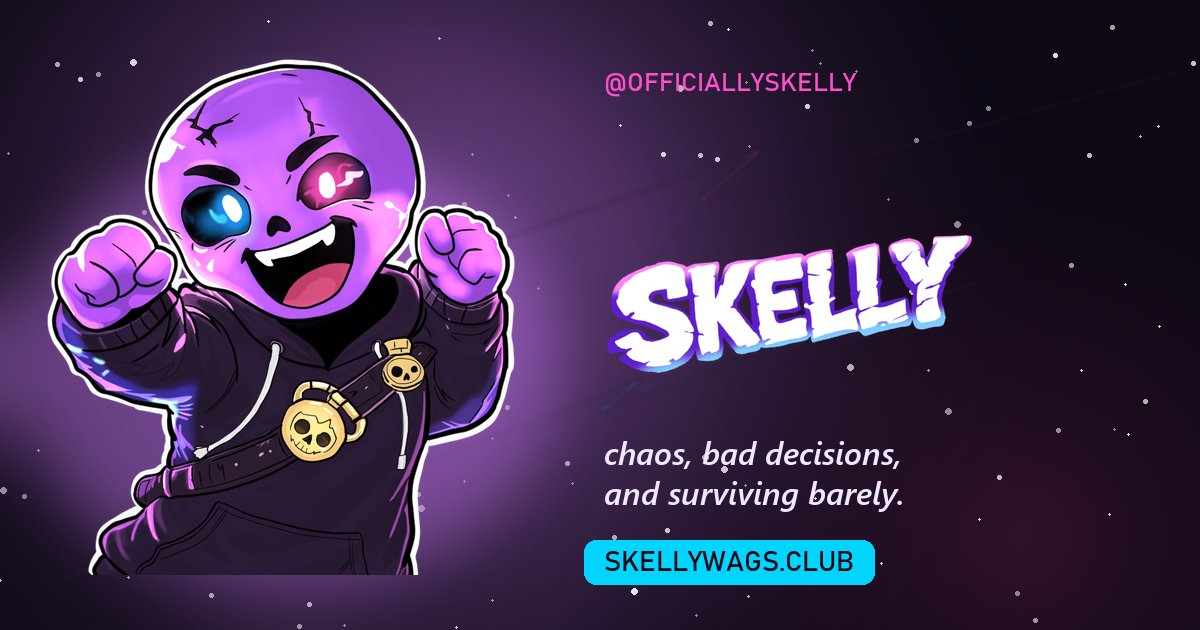
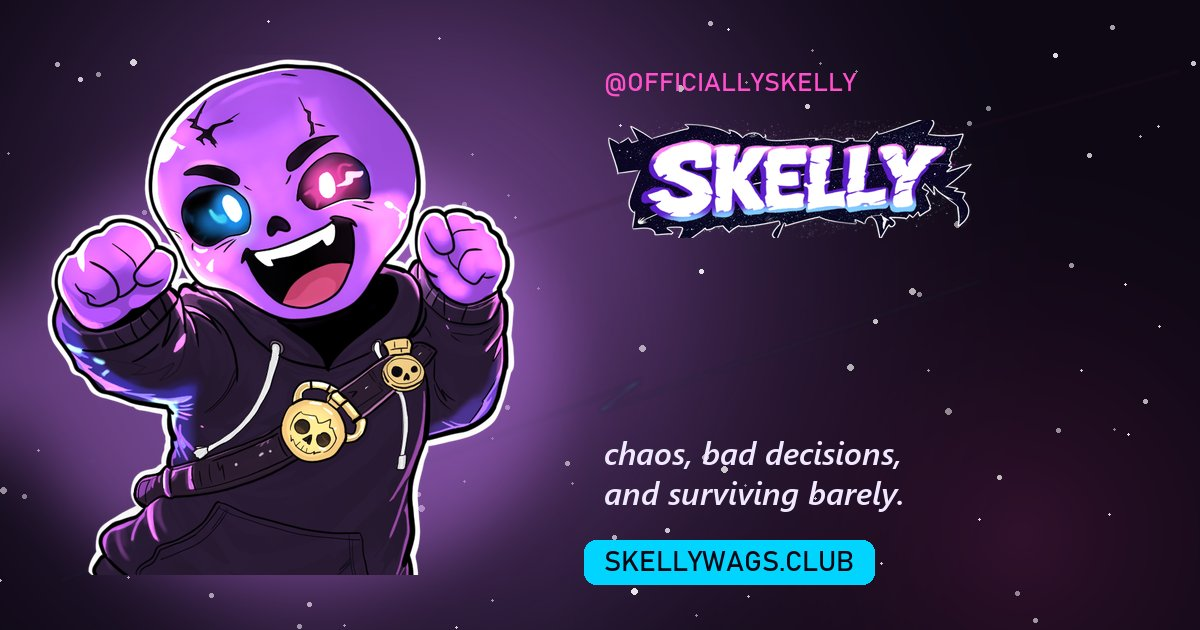
Swap to Skelly's new graffiti SKELLY wordmark; nav scales responsively (h-12 to h-[68px]) for the wider 3.2:1 aspect

Changed region(s): [[0.4933, 0.181, 0.8325, 0.6032]]

diff --git a/components/Navbar.tsx b/components/Navbar.tsx
@@ -15,14 +15,14 @@ export default function Navbar({ social }: { social: SocialLink[] }) {
   return (
     <header className="sticky top-0 z-50 backdrop-blur-md bg-bg-primary/80 border-b border-purple-core/25">
       <div className="max-w-7xl mx-auto px-4 lg:px-8 h-20 md:h-24 flex items-center justify-between">
-        <Link href="/" className="flex items-center gap-2 group">
+        <Link href="/" className="flex items-center gap-2 group shrink-0">
           <Image
             src="/skellyword.png"
             alt="SKELLY"
-            width={240}
-            height={96}
+            width={300}
+            height={94}
             priority
-            className="h-16 md:h-20 w-auto drop-shadow-[0_0_18px_rgba(155,95,192,0.8)]"
+            className="h-12 sm:h-14 md:h-16 lg:h-[68px] w-auto drop-shadow-[0_0_18px_rgba(155,95,192,0.8)]"
           />
         </Link>
 
